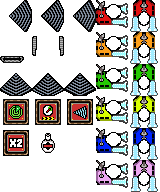
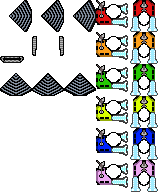
Updated in-game menus and added power-up info Updated constants and debug data Updated menu layout

Changed region(s): [[0.0, 0.5, 0.1875, 0.8125], [0.2188, 0.5, 0.5938, 0.6562], [0.25, 0.6875, 0.3438, 0.8125]]

diff --git a/core/src/tiko/coregames/drilltothecore/screens/GameScreen.java b/core/src/tiko/coregames/drilltothecore/screens/GameScreen.java
@@ -6,7 +6,6 @@ import com.badlogic.gdx.graphics.Camera;
 import com.badlogic.gdx.graphics.GL20;
 import com.badlogic.gdx.graphics.OrthographicCamera;
 import com.badlogic.gdx.graphics.g2d.SpriteBatch;
-import com.badlogic.gdx.graphics.g2d.TextureRegion;
 import com.badlogic.gdx.math.MathUtils;
 import com.badlogic.gdx.math.Vector3;
 import com.badlogic.gdx.scenes.scene2d.InputEvent;
@@ -50,6 +49,7 @@ public class GameScreen extends BaseScreen {
     private Label displayGameTime;
 
     private Label scoreValue, depthValue;
+    private Label radarBoostValue, speedBoostValue, drillBoostValue, pointBoostValue, fuelBoostValue;
 
     private ProgressBar fuelValue;
 
@@ -87,12 +87,16 @@ public class GameScreen extends BaseScreen {
     }
 
     private void createScreenLayout() {
+        powerupLayout = new Table();
+        powerupLayout.defaults().size(125, 25);
+
         screenLayout = new Table();
         screenLayout.columnDefaults(3);
         screenLayout.defaults().expand().uniform();
         screenLayout.add(createInformationLayer()).align(Align.topLeft).top();
         screenLayout.add(createDisplayLayer()).top();
         screenLayout.add(createFuelLayer()).align(Align.topRight).row();
+        screenLayout.add(powerupLayout).align(Align.bottomLeft);
 
         addActor(screenLayout);
     }
@@ -131,12 +135,9 @@ public class GameScreen extends BaseScreen {
 
         depthValue.setAlignment(Align.right);
 
-        powerupLayout = new Table();
-        powerupLayout.defaults().left().size(125, 25);
-
-        infoLayer.add(scoreLayer).size(125, 25).left().row();
-        infoLayer.add(depthLayer).size(125, 25).left().row();
-        infoLayer.add(powerupLayout);
+        infoLayer.defaults().left().size(125, 25);
+        infoLayer.add(scoreLayer).row();
+        infoLayer.add(depthLayer);
 
         return infoLayer;
     }
@@ -153,12 +154,64 @@ public class GameScreen extends BaseScreen {
             displayScoreValue.addAction(sequence);
             displayScoreValue.setVisible(true);
         }
+
+        powerupLayout.clear();
+
+        if (player.getRadarViewTimer() != null) {
+            if (radarBoostValue == null) {
+                radarBoostValue = new Label("", skin, "clear");
+                radarBoostValue.setAlignment(Align.right);
+            }
+
+            radarBoostValue.setText(player.getRadarViewTimer());
+            powerupLayout.add(new Stack(new ImageButton(skin, "radar"), radarBoostValue)).row();
+        }
+
+        if (player.getSpeedTimer() != null) {
+            if (speedBoostValue == null) {
+                speedBoostValue = new Label("", skin, "clear");
+                speedBoostValue.setAlignment(Align.right);
+            }
+
+            speedBoostValue.setText(player.getSpeedTimer());
+            powerupLayout.add(new Stack(new ImageButton(skin, "speed"), speedBoostValue)).row();
+        }
+
+        if (player.getDrillTimer() != null) {
+            if (drillBoostValue == null) {
+                drillBoostValue = new Label("", skin, "clear");
+                drillBoostValue.setAlignment(Align.right);
+            }
+
+            drillBoostValue.setText(player.getDrillTimer());
+            powerupLayout.add(new Stack(new ImageButton(skin, "drill"), drillBoostValue)).row();
+        }
+
+        if (player.getPointsTimer() != null) {
+            if (pointBoostValue == null) {
+                pointBoostValue = new Label("", skin, "clear");
+                pointBoostValue.setAlignment(Align.right);
+            }
+
+            pointBoostValue.setText(player.getPointsTimer());
+            powerupLayout.add(new Stack(new ImageButton(skin, "points"), pointBoostValue)).row();
+        }
+
+        if (player.getFuelTimer() != null) {
+            if (fuelBoostValue == null) {
+                fuelBoostValue = new Label("", skin, "clear");
+                fuelBoostValue.setAlignment(Align.right);
+            }
+
+            fuelBoostValue.setText(player.getFuelTimer());
+            powerupLayout.add(new Stack(new ImageButton(skin, "fuelBoost"), fuelBoostValue));
+        }
     }
 
     /**
      * Creates pause menu window.
      */
-    private Window createPauseWindow() {
+    private void createPauseWindow() {
         pauseWindow = new Window("", skin, "pauseWindow");
         pauseWindow.setResizable(false);
         pauseWindow.setMovable(false);
@@ -178,11 +231,6 @@ public class GameScreen extends BaseScreen {
                         break;
                     case "restart":
                         resetLevel();
-                        break;
-                    default:
-                        if (DEBUG_MODE) {
-                            player.setMaxFuel();
-                        }
                         break;
                 }
 
@@ -212,7 +260,7 @@ public class GameScreen extends BaseScreen {
         pauseWindow.add(menuButton).padTop(MENU_DEFAULT_PADDING).row();
         pauseWindow.setSize(250, 300);
 
-        return pauseWindow;
+        addActor(pauseWindow);
     }
 
     /**
@@ -273,19 +321,13 @@ public class GameScreen extends BaseScreen {
         depthValue.setText(String.format("%.0f", player.getDrillDepth()));
 
         screenLayout.setPosition(
-            (camera.position.x - camera.viewportWidth / 2) + SAFE_ZONE_SIZE,
-            (camera.position.y - camera.viewportHeight / 2) + SAFE_ZONE_SIZE
+            camera.position.x - camera.viewportWidth / 2 + SAFE_ZONE_SIZE,
+            camera.position.y - camera.viewportHeight / 2 + SAFE_ZONE_SIZE
         );
 
         screenLayout.setSize(
             camera.viewportWidth - SAFE_ZONE_SIZE * 2, camera.viewportHeight - SAFE_ZONE_SIZE * 2
         );
-    }
-
-    @Override
-    public void hide() {
-        Debug.setCustomDebugString("");
-        super.hide();
     }
 
     @Override
@@ -317,8 +359,6 @@ public class GameScreen extends BaseScreen {
         act(delta);
         draw();
 
-        Debug.setCustomDebugString(player.toString());
-
         if (player.isDepthGoalAchieved() || player.getFuel() <= 0) {
             Setup.nextScreen(new EndScreen("GAME ENDED", player.getTotalScore(),
                     0, player.getDrillDepth(), levelIndex));
@@ -328,24 +368,6 @@ public class GameScreen extends BaseScreen {
     @Override
     public boolean keyDown(int key) {
         switch (key) {
-            case Input.Keys.S:
-                player.collectItemByName(null, POWER_UP_SPEED_MULTIPLIER);
-                break;
-            case Input.Keys.D:
-                player.collectItemByName(null, POWER_UP_DRILL_MULTIPLIER);
-                break;
-            case Input.Keys.R:
-                player.collectItemByName(null, POWER_UP_RADAR_EXTENDER);
-                break;
-            case Input.Keys.C:
-                player.collectItemByName(null, POWER_UP_POINT_MULTIPLIER);
-                break;
-            case Input.Keys.F:
-                player.collectItemByName(null, POWER_UP_UNLIMITED_FUEL);
-                break;
-            case Input.Keys.PLUS:
-                player.collectItemByName(null, POWER_UP_RANDOMIZED);
-                break;
             case Input.Keys.MINUS:
                 for (String id : RANDOM_POWER_UPS) {
                     player.collectItemByName(null, id);

diff --git a/core/src/tiko/coregames/drilltothecore/utilities/Debug.java b/core/src/tiko/coregames/drilltothecore/utilities/Debug.java
@@ -23,11 +23,9 @@ public class Debug {
     private BitmapFont font;
     private HashMap<String, BaseDebug> debugData;
     private OrthographicCamera screen;
-    private String customDebugString;
     private static Debug instance;
 
     private Debug() {
-        customDebugString = "";
         screen = new OrthographicCamera();
         font = new BitmapFont(Gdx.files.internal("ui/debug.fnt"));
     }
@@ -64,12 +62,6 @@ public class Debug {
         }
     }
 
-    public static void setCustomDebugString(String value) {
-        if (instance != null && value != null) {
-            instance.customDebugString = value;
-        }
-    }
-
     public static void dispose() {
         if (instance != null) {
             instance.font.dispose();
@@ -85,7 +77,7 @@ public class Debug {
 
         BaseDebug() {
             timeElapsed = 0;
-            debugString = "FPS: %d (%d)\n%d:%02d:%02d -> %.1f +%.3f\nX: %.04f\nY: %.04f\nZ: %.04f\n\n%s";
+            debugString = "FPS: %d (%d)\n%d:%02d:%02d -> %.1f +%.3f\nX: %.04f\nY: %.04f\nZ: %.04f";
             layout = new GlyphLayout(instance.font, debugString);
         }
 
@@ -105,12 +97,16 @@ public class Debug {
                     delta,
                     Gdx.input.getAccelerometerX(),
                     Gdx.input.getAccelerometerY(),
-                    Gdx.input.getAccelerometerZ(),
-                    instance.customDebugString
+                    Gdx.input.getAccelerometerZ()
                 )
             );
 
-            instance.font.draw(batch, layout, SAFE_ZONE_SIZE, instance.screen.viewportHeight - SAFE_ZONE_SIZE);
+            instance.font.draw(
+                batch,
+                layout,
+                instance.screen.viewportWidth - layout.width - SAFE_ZONE_SIZE,
+                layout.height + SAFE_ZONE_SIZE
+            );
         }
     }
 }

diff --git a/core/src/tiko/coregames/drilltothecore/objects/Player.java b/core/src/tiko/coregames/drilltothecore/objects/Player.java
@@ -241,11 +241,29 @@ public class Player extends BaseObject {
     public String getRecentScoreString() {
         if (recentlyAddedScore > 0) {
             return String.format("+%d", recentlyAddedScore);
-        } else if (recentlyAddedScore < 0) {
-            return String.format("%d", recentlyAddedScore);
         }
 
         return null;
+    }
+
+    public String getRadarViewTimer() {
+        return viewTimer > 0 ? String.format("%.1f", viewTimer) : null;
+    }
+
+    public String getSpeedTimer() {
+        return speedTimer > 0 ? String.format("%.1f", speedTimer) : null;
+    }
+
+    public String getDrillTimer() {
+        return drillTimer > 0 ? String.format("%.1f", drillTimer) : null;
+    }
+
+    public String getPointsTimer() {
+        return collectibleTimer > 0 ? String.format("%.1f", collectibleTimer) : null;
+    }
+
+    public String getFuelTimer() {
+        return fuelTimer > 0 ? String.format("%.1f", fuelTimer) : null;
     }
 
     @Override
@@ -700,25 +718,6 @@ public class Player extends BaseObject {
      */
     public boolean isDepthGoalAchieved() {
         return currentState == STATES.DONE;
-    }
-
-    @Override
-    // TODO: Remove before release
-    public String toString() {
-        return String.format(
-            "Current points: %d\nDepth reached: %.0f m\nTotal fuel: %.2f\n" +
-            "Radar power-up: %.1f\nSpeed power-up: %.1f\nDrill speed power-up: %.1f\n" +
-            "Point power-up: %.1f\nFuel power-up: %.1f\n%s",
-            getTotalScore(),
-            getDrillDepth(),
-            getFuel(),
-            viewTimer,
-            speedTimer,
-            drillTimer,
-            collectibleTimer,
-            fuelTimer,
-            controller.toString()
-        );
     }
 
     @Override

diff --git a/core/src/tiko/coregames/drilltothecore/utilities/Constants.java b/core/src/tiko/coregames/drilltothecore/utilities/Constants.java
@@ -67,7 +67,7 @@ public class Constants {
     /**
      * Defines level count
      */
-    public static final int LEVEL_COUNT = 4;
+    public static final int LEVEL_COUNT = 5;
 
     /**
      * Defines player move speed
@@ -87,7 +87,7 @@ public class Constants {
     /**
      * Defines minimum player fuel consumption rate
      */
-    public static final float PLAYER_FUEL_MIN_CONSUMPTION = 1f;
+    public static final float PLAYER_FUEL_MIN_CONSUMPTION = 1.15f;
 
     /**
      * Defines player idle multiplier

diff --git a/core/src/tiko/coregames/drilltothecore/managers/LevelManager.java b/core/src/tiko/coregames/drilltothecore/managers/LevelManager.java
@@ -61,6 +61,9 @@ public class LevelManager implements Disposable {
             case 3:
                 path.append("level_3.tmx");
                 break;
+            case 4:
+                path.append("level_4.tmx");
+                break;
             default:
                 path.append("tutorial.tmx");
                 break;
